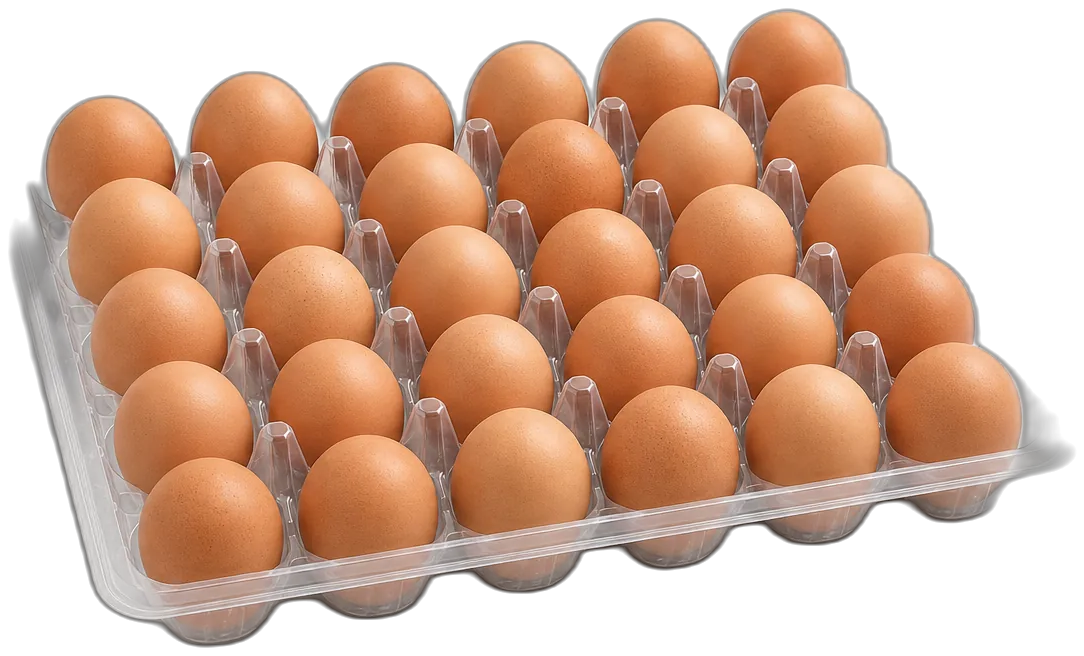
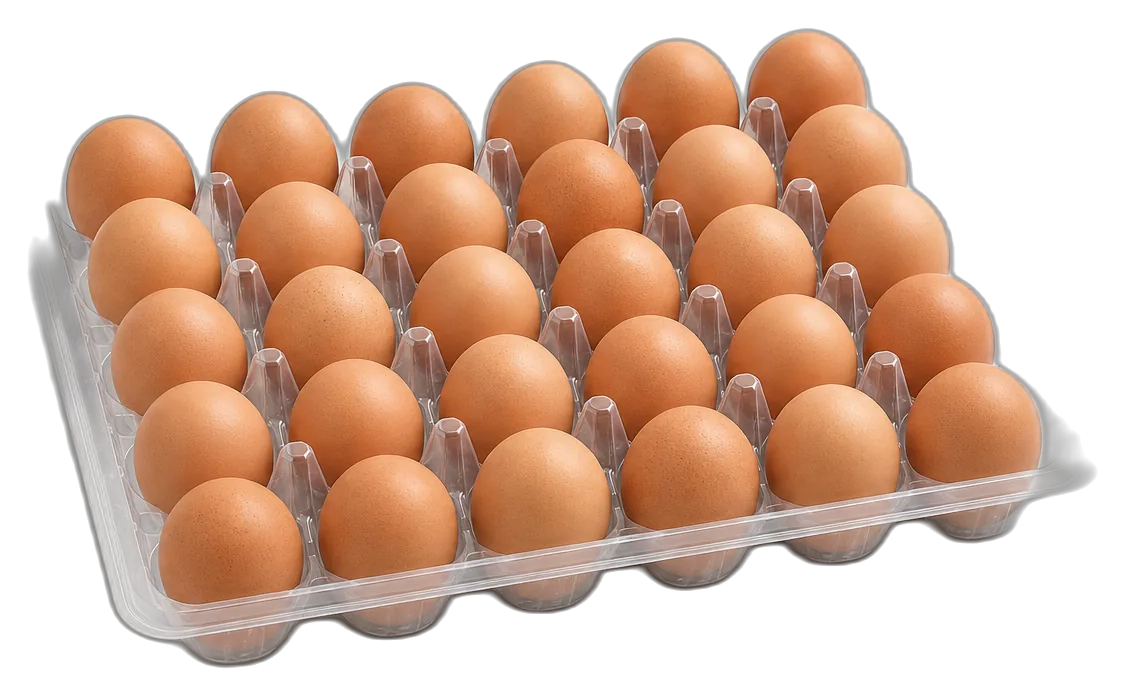
Fix tray so it sits on the page stone, not in a photo box
Replace cutout+glow/drop-shadow framing with a stone-matched
tray-on-page asset and solid page ground so edges disappear (v117).

Changed region(s): [[0.0, 0.0, 1.0, 1.0], [0.4871, 0.4268, 0.548, 0.5183], [0.4566, 0.3354, 0.5175, 0.4268]]

diff --git a/styles.css b/styles.css
@@ -29,11 +29,7 @@ body {
   font-family: var(--font);
   font-size: 16px;
   color: var(--ink);
-  background:
-    radial-gradient(1200px 520px at 78% 8%, rgba(217, 150, 10, 0.07), transparent 60%),
-    radial-gradient(900px 420px at 12% -10%, rgba(229, 235, 230, 0.9), transparent 55%),
-    var(--stone);
-  background-attachment: fixed;
+  background: var(--stone);
   line-height: 1.55;
   -webkit-font-smoothing: antialiased;
 }
@@ -254,20 +250,11 @@ img { max-width: 100%; height: auto; display: block; }
   place-items: center;
   justify-self: end;
   width: min(100%, 620px);
-  margin-right: -0.75rem;
-  background: none;
+  margin-right: -0.5rem;
+  background: transparent;
   border: 0;
   box-shadow: none;
   animation: rise 0.8s var(--ease) 0.05s both;
-}
-.hero-glow {
-  position: absolute;
-  inset: 8% 2% 4% 2%;
-  border-radius: 50%;
-  background: radial-gradient(circle at 50% 55%, var(--wash), transparent 68%);
-  filter: blur(2px);
-  pointer-events: none;
-  z-index: 0;
 }
 .hero-tray {
   position: relative;
@@ -277,7 +264,7 @@ img { max-width: 100%; height: auto; display: block; }
   max-width: none;
   margin: 0;
   padding: 0;
-  background: none;
+  background: transparent;
   border: 0;
   border-radius: 0;
   box-shadow: none;
@@ -288,12 +275,12 @@ img { max-width: 100%; height: auto; display: block; }
   height: auto;
   display: block;
   object-fit: contain;
-  background: none;
+  background: transparent;
   border: 0;
   border-radius: 0;
   box-shadow: none;
-  filter: drop-shadow(0 26px 20px rgba(18, 20, 18, 0.14))
-          drop-shadow(0 8px 8px rgba(18, 20, 18, 0.07));
+  /* Shadow is baked into tray-on-page — no CSS plate/glow */
+  filter: none;
 }
 
 @keyframes rise {
@@ -516,7 +503,10 @@ img { max-width: 100%; height: auto; display: block; }
   display: block;
   object-fit: contain;
   background: transparent;
-  filter: drop-shadow(0 14px 22px rgba(18, 20, 18, 0.12));
+  border: 0;
+  border-radius: 0;
+  box-shadow: none;
+  filter: none;
 }
 .order-tray p {
   margin: 0.75rem 0 0;
@@ -850,7 +840,6 @@ details p {
     margin-right: 0;
     justify-self: center;
   }
-  .hero-glow { inset: 12% 6% 8% 6%; }
   .proof-row { grid-template-columns: 1fr; gap: 0.85rem; }
   .price-bento,
   .pickup-split,

diff --git a/index.html b/index.html
@@ -9,7 +9,7 @@
   <meta property="og:type" content="website">
   <meta property="og:title" content="YOLKO: 30 Eggs for $12 at Flemington Markets">
   <meta property="og:description" content="Book online, pick up Friday or Saturday at Paddy's Markets Flemington. 1 tray $12, 2 trays $23, full box $66.">
-  <meta property="og:image" content="https://getyolko.com/assets/tray-studio.jpg?v=116">
+  <meta property="og:image" content="https://getyolko.com/assets/tray-studio.jpg?v=117">
   <meta property="og:url" content="https://getyolko.com/">
   <meta name="twitter:card" content="summary_large_image">
 
@@ -20,8 +20,8 @@
   <link rel="preconnect" href="https://fonts.googleapis.com">
   <link rel="preconnect" href="https://fonts.gstatic.com" crossorigin>
   <link href="https://fonts.googleapis.com/css2?family=Outfit:wght@400;500;600;700;800&display=swap" rel="stylesheet">
-  <link rel="stylesheet" href="styles.css?v=116">
-  <link rel="preload" as="image" href="assets/tray-cutout.webp?v=116" type="image/webp">
+  <link rel="stylesheet" href="styles.css?v=117">
+  <link rel="preload" as="image" href="assets/tray-on-page.webp?v=117" type="image/webp">
 
   <script type="application/ld+json">
   {
@@ -34,7 +34,7 @@
         "description": "Fresh Pace Farm eggs at Paddy's Markets Flemington. Book online, pick up Friday or Saturday.",
         "url": "https://getyolko.com/",
         "telephone": "[phone redacted]",
-        "image": "https://getyolko.com/assets/tray-studio.jpg?v=116",
+        "image": "https://getyolko.com/assets/tray-studio.jpg?v=117",
         "priceRange": "$$",
         "address": {
           "@type": "PostalAddress",
@@ -54,7 +54,7 @@
         "@type": "Product",
         "@id": "https://getyolko.com/#product-tray",
         "name": "Fresh Egg Tray (30 eggs)",
-        "image": "https://getyolko.com/assets/tray-studio.jpg?v=116",
+        "image": "https://getyolko.com/assets/tray-studio.jpg?v=117",
         "brand": { "@type": "Brand", "name": "Pace Farm" },
         "offers": {
           "@type": "Offer",
@@ -105,10 +105,9 @@
           </div>
         </div>
         <div class="hero-visual">
-          <div class="hero-glow" aria-hidden="true"></div>
           <picture class="hero-tray">
-            <source srcset="assets/tray-cutout.webp?v=116" type="image/webp">
-            <img src="assets/tray-cutout.png?v=116" alt="Pace Farm 30 large eggs tray" width="1084" height="656" fetchpriority="high" decoding="async">
+            <source srcset="assets/tray-on-page.webp?v=117" type="image/webp">
+            <img src="assets/tray-on-page.jpg?v=117" alt="Pace Farm 30 large eggs tray" width="1215" height="779" fetchpriority="high" decoding="async">
           </picture>
         </div>
       </div>
@@ -214,8 +213,8 @@
           <p>Reserve now. Trays run out most weeks. We confirm the same day.</p>
           <div class="order-tray">
             <picture>
-              <source srcset="assets/tray-cutout.webp?v=116" type="image/webp">
-              <img src="assets/tray-cutout.png?v=116" alt="Pace Farm 30 large eggs tray" width="1084" height="656" loading="lazy" decoding="async">
+              <source srcset="assets/tray-on-page.webp?v=117" type="image/webp">
+              <img src="assets/tray-on-page.jpg?v=117" alt="Pace Farm 30 large eggs tray" width="1215" height="779" loading="lazy" decoding="async">
             </picture>
             <p><strong>30 large eggs</strong> per tray · Pace Farm · Flemington pickup</p>
           </div>
@@ -369,7 +368,7 @@
     </div>
   </footer>
 
-  <script src="config.js?v=116"></script>
-  <script src="app.js?v=116"></script>
+  <script src="config.js?v=117"></script>
+  <script src="app.js?v=117"></script>
 </body>
 </html>

diff --git a/config.js b/config.js
@@ -3,7 +3,7 @@
 
 const SITE_CONFIG = {
   // Bump when site assets change — forces browsers to fetch fresh files.
-  assetVersion: "116",
+  assetVersion: "117",
 
   // Your WhatsApp number in international format, digits only.
   // Example for an Australian mobile [phone redacted]: "[phone redacted]"

diff --git a/DESIGN.md b/DESIGN.md
@@ -1,4 +1,4 @@
-# YOLKO Design System — locked (v116)
+# YOLKO Design System — locked (v117)
 
 **Design read:** Local-food conversion landing for Flemington shoppers, quiet modern DTC language (Allbirds / Glossier clarity + market product proof). Not a Pace Farm clone. Not cream craft. Not poster.
 
@@ -10,62 +10,52 @@
 Book a Pace Farm tray for Friday or Saturday pickup at Flemington.
 
 ## Signature (only one)
-Freestanding cutout tray on the page (no media card) beside a commercial headline + yolk **$12** offer. Brand lives in the nav only.
+Tray product sitting on the page stone ground — **not** inside a media card. Use `assets/tray-on-page.webp` (opaque, exact `#F3F4F1` corners + baked contact shadow). Brand lives in the nav only.
 
 ## Hero copy (locked)
 ```
+Flemington Markets · Fri & Sat
 30 large eggs this weekend
 $12 · one Pace Farm tray
-Book online. Pick up Friday or Saturday at Flemington Markets.
+Book online. Pick up Friday or Saturday at the stall.
 ```
-Always keep a real headline above the price. No cute slogans. No second YOLKO wordmark.
 
-## Craft rules (why v115 felt bad)
-1. **Atmosphere** — flat stone alone reads unfinished. Use a soft warm wash behind the hero product, never a gray card.
-2. **Composition** — first viewport is one scene: copy left, tray right, proof strip as the floor. Not a sparse template.
-3. **Hierarchy** — headline > price > lede > CTAs. Price is accent, not louder than the headline.
-4. **Density** — tighten empty gaps; keep breathing room, kill dead space.
-5. **Ground the tray** — freestanding cutout + soft radial wash + object drop-shadow. No rounded media frame.
+## Tray rules (hard)
+1. Page background must be solid `--stone` `#F3F4F1` — no page washes that mismatch the asset.
+2. Hero tray asset must be `tray-on-page` (stone-matched), not a cutout with CSS glow/drop-shadow plates.
+3. No `border-radius`, no gray fill, no `box-shadow` rectangle, no `hero-glow` behind the tray.
+4. Shadow lives in the image (contact shadow), not as a CSS filter that draws a plate.
 
 ## Tokens
 | Token | Hex | Role |
 |-------|-----|------|
-| stone | `#F3F4F1` | page ground |
+| stone | `#F3F4F1` | page ground + tray asset ground |
 | ink | `#121412` | text + primary CTA |
 | soft | `#5C655E` | secondary text |
 | line | `#D5D9D3` | rules / borders |
 | yolk | `#D9960A` | price accent only |
 | mist | `#E5EBE6` | soft panels |
 | white | `#FFFFFF` | surfaces |
-| wash | `rgba(217,150,10,0.10)` | hero atmosphere only |
 
 ## Type
 - **Outfit** only (400/500/600/700/800)
-- No Inter, Fraunces, Syne, Plus Jakarta for this version
 
 ## Shape
 - Buttons / inputs: `10px`
 - Cards / panels: `14px`
-- **No pill CTAs** (`border-radius: 999px` banned on buttons)
+- **No pill CTAs**
 
-## Layout rules
-- Asymmetric split hero (copy left, product right)
-- Hero budget: statement headline + offer line + lede + CTA group + product
-- Proof = text strip, no icons
-- Cards only on pricing + booking form
-- Featured bundle = Double up ($23), prices bound by `data-price` never DOM index
-
-## Kill list for this brand (hard ban)
+## Kill list
 - Pace Farm logo clone / blue pill wordmark
-- Floating decorative eggs
-- Orange starburst / price sticker overlays
+- Floating decorative eggs / orange starburst stickers
 - 4-icon navy feature bars
-- Soft colored blobs behind product (wash ≠ blob — wash is subtle radial only)
+- Soft colored blobs / hero-glow plates behind product
 - Cream + Fraunces craft look
 - Three equal pricing towers
-- Updating `.price-big` by querySelectorAll index
-- Gray rounded media frame / card around the tray photo
-- Cute slogan headlines (“walk out with eggs”)
+- Updating `.price-big` by DOM index
+- Gray rounded media frame around tray
+- Cute slogan headlines
+- Transparent cutout + CSS drop-shadow that reads as a boxed photo
 
 ## Business truth
 - 1 tray $12 · 2 trays $23 · box $66